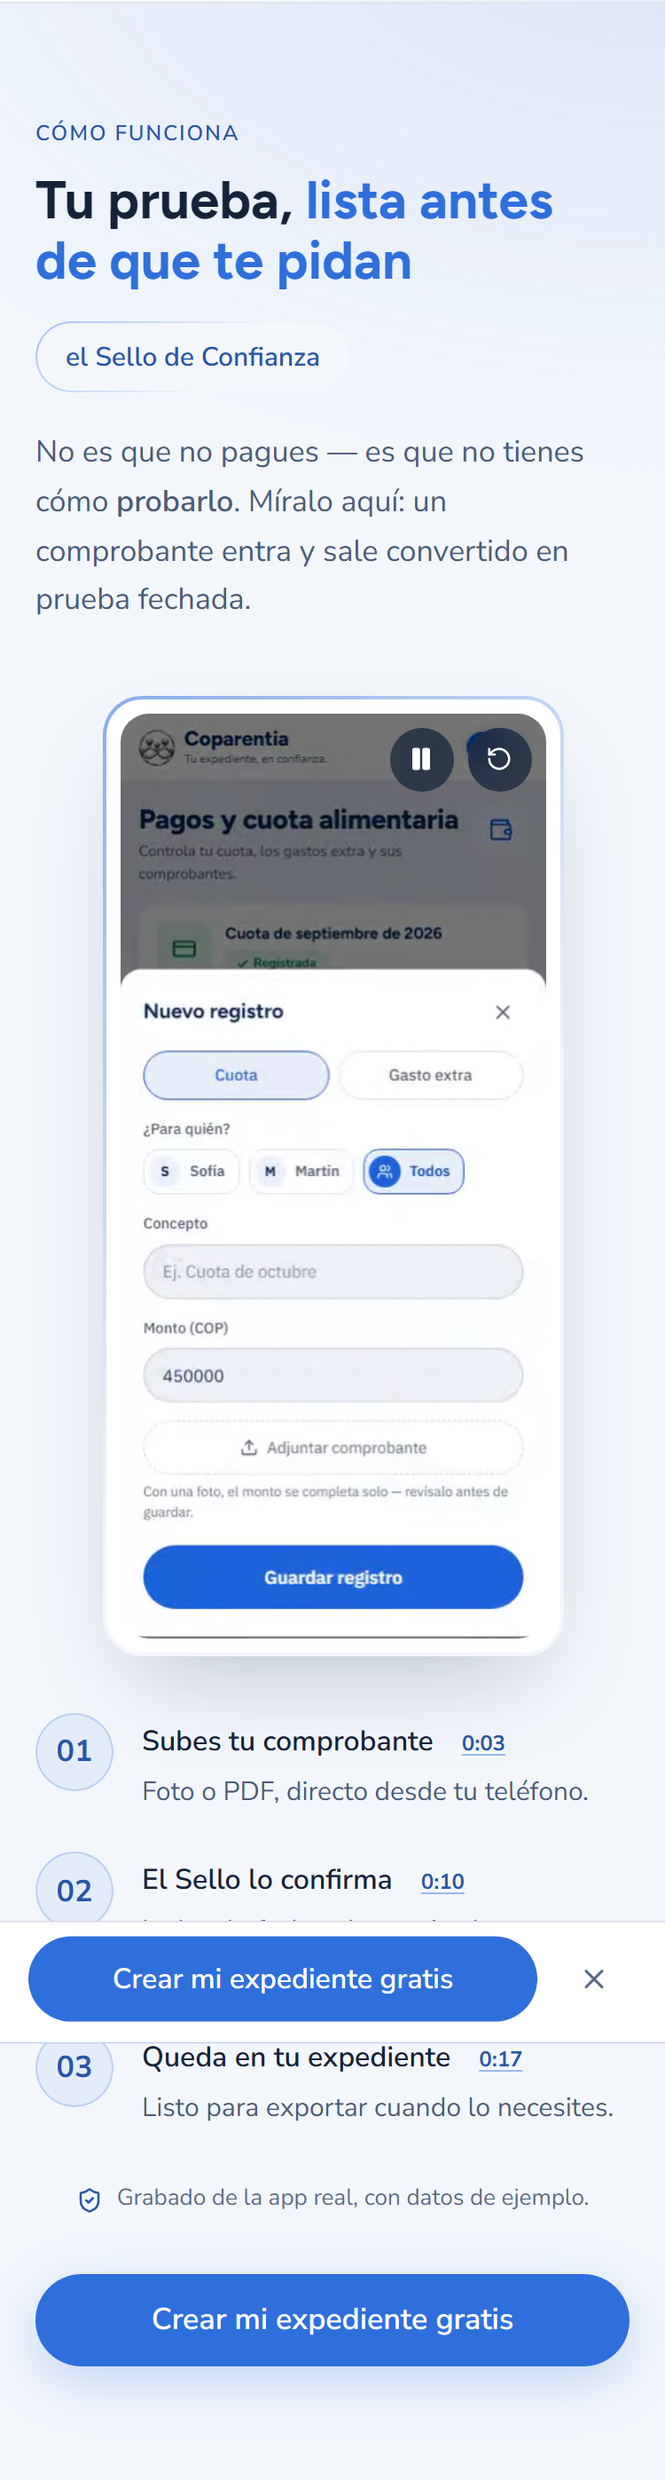
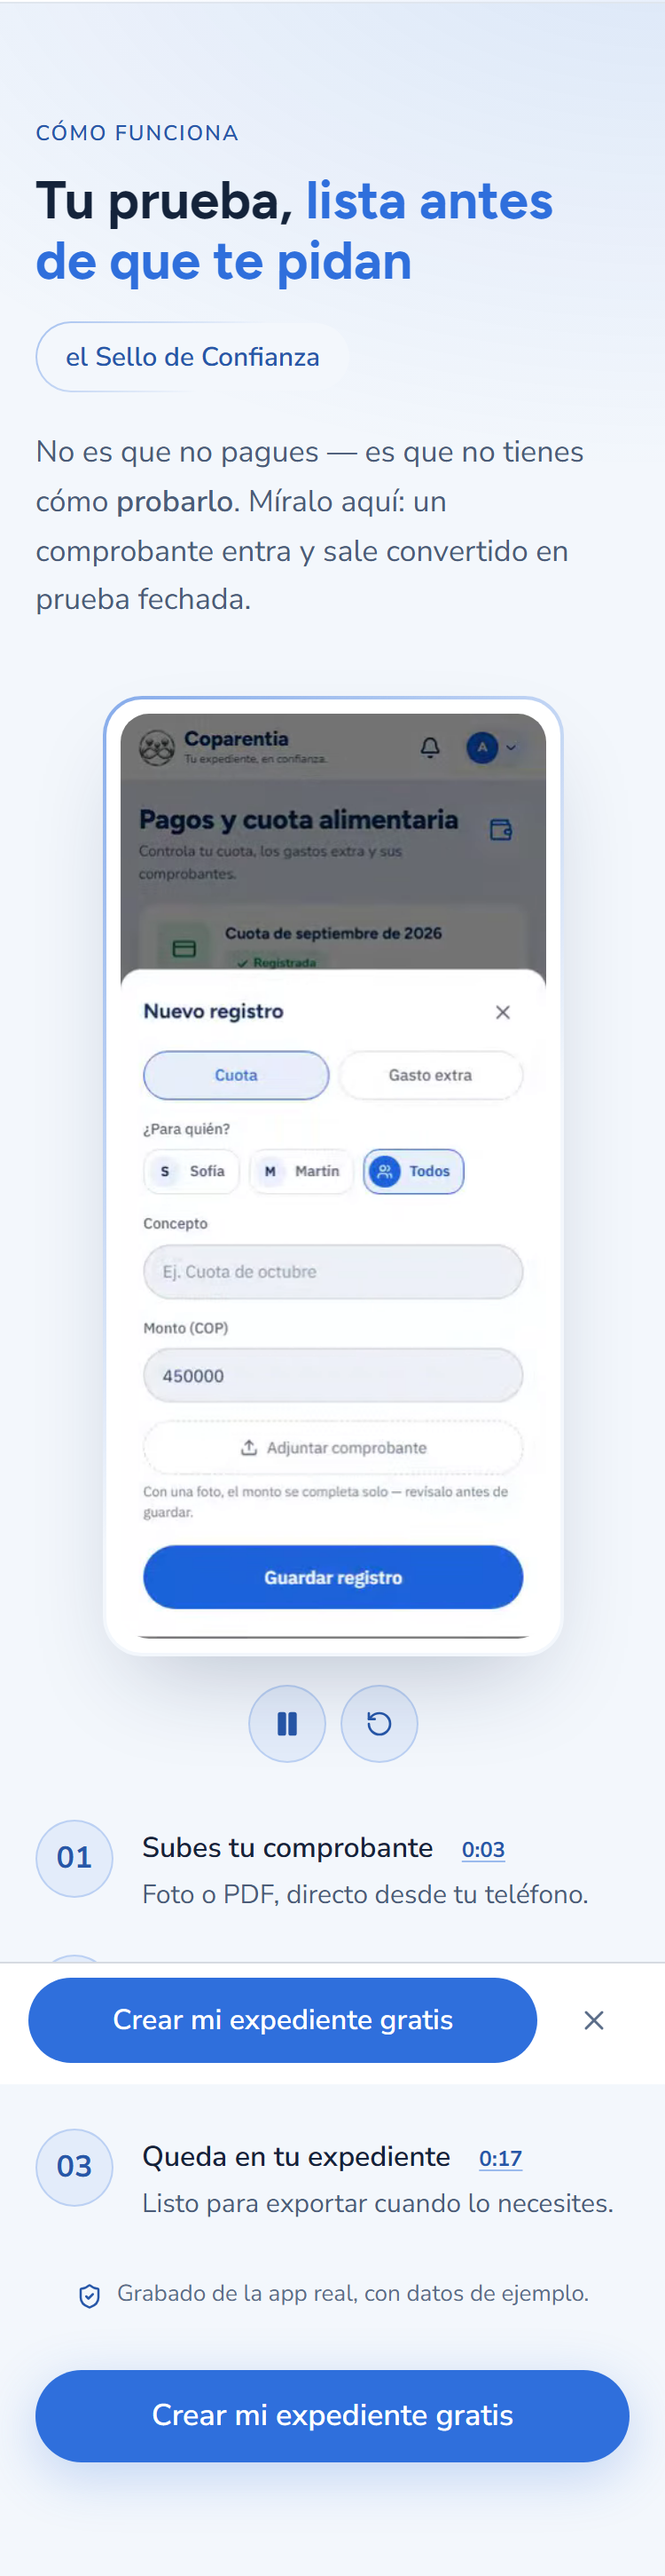
fix(landing): mando del video fuera del cuadro y barra fija que cede el paso
Ronda 12 del revisor:

- El mando (pausar / volver a empezar) sale de encima de la grabacion: va
  debajo del telefono, con 44px de area tactil.
- Las marcas de tiempo llegan a 44px de alto y, al saltar, llevan el video a
  la vista (en celular esta arriba de los pasos y el salto pasaba fuera de
  pantalla).
- La barra fija de celular se esconde mientras CUALQUIER boton principal de la
  pagina este a la vista, no solo sobre la oferta y el cierre. Barrido de la
  pagina entera: 0 choques en 22 posiciones de scroll.

Changed region(s): [[0.0307, 0.0311, 0.92, 0.9653], [0.8893, 0.7785, 0.92, 0.8096]]

diff --git a/components/landing/Solucion.tsx b/components/landing/Solucion.tsx
@@ -142,6 +142,8 @@ export function Solucion({
     el.currentTime = Math.max(INICIO, segundosDe(marca));
     void el.play();
     setPausado(false);
+    // En celular el video va ARRIBA de los pasos: sin esto el salto ocurría fuera de pantalla.
+    el.scrollIntoView({ block: 'center', behavior: 'smooth' });
   };
 
   return (
@@ -178,7 +180,7 @@ export function Solucion({
             en 3 columnas, como en el resto del kit. */}
         {demo ? (
           <div className="mt-10 lg:grid lg:grid-cols-[0.95fr_1.05fr] lg:items-center lg:gap-16">
-            <motion.div variants={item} className="flex justify-center lg:order-2">
+            <motion.div variants={item} className="flex flex-col items-center lg:order-2">
               <Hairline emphasis surface="surface" className="relative w-full max-w-[260px] p-2 shadow-[var(--shadow-2)] lg:max-w-[320px]">
                 <video
                   ref={ref}
@@ -216,29 +218,31 @@ export function Solucion({
                   </button>
                 )}
 
-                {/* Mando propio: los controles del navegador montaban su barra negra encima de la
-                    navegación de la app grabada. Dos botones bastan — pausar y volver a empezar. */}
-                {yaArranco && (
-                  <div className="absolute right-4 top-4 flex items-center gap-2">
-                    <button
-                      type="button"
-                      onClick={alternarPausa}
-                      aria-label={pausado ? 'Reanudar la demostración' : 'Pausar la demostración'}
-                      className="flex size-9 items-center justify-center rounded-full bg-[color-mix(in_oklab,var(--text-primary)_72%,transparent)] text-[var(--on-accent)] backdrop-blur transition-transform active:scale-95"
-                    >
-                      {pausado ? <Play size={15} fill="currentColor" aria-hidden="true" /> : <Pause size={15} fill="currentColor" aria-hidden="true" />}
-                    </button>
-                    <button
-                      type="button"
-                      onClick={alTerminar}
-                      aria-label="Volver a empezar la demostración"
-                      className="flex size-9 items-center justify-center rounded-full bg-[color-mix(in_oklab,var(--text-primary)_72%,transparent)] text-[var(--on-accent)] backdrop-blur transition-transform active:scale-95"
-                    >
-                      <RotateCcw size={15} aria-hidden="true" />
-                    </button>
-                  </div>
-                )}
               </Hairline>
+
+              {/* Mando propio: los controles del navegador montaban su barra negra sobre la
+                  navegación de la app grabada, y encima del cuadro tapaban contenido. Van fuera
+                  del teléfono, con 44px de área táctil. */}
+              {yaArranco && (
+                <div className="mt-4 flex items-center gap-2">
+                  <button
+                    type="button"
+                    onClick={alternarPausa}
+                    aria-label={pausado ? 'Reanudar la demostración' : 'Pausar la demostración'}
+                    className="flex size-11 items-center justify-center rounded-full border border-[color-mix(in_oklab,var(--accent)_22%,transparent)] bg-[var(--chip-bg)] text-[var(--accent-ink,var(--accent))] transition-transform active:scale-95 [touch-action:manipulation]"
+                  >
+                    {pausado ? <Play size={16} fill="currentColor" aria-hidden="true" /> : <Pause size={16} fill="currentColor" aria-hidden="true" />}
+                  </button>
+                  <button
+                    type="button"
+                    onClick={alTerminar}
+                    aria-label="Volver a empezar la demostración"
+                    className="flex size-11 items-center justify-center rounded-full border border-[color-mix(in_oklab,var(--accent)_22%,transparent)] bg-[var(--chip-bg)] text-[var(--accent-ink,var(--accent))] transition-transform active:scale-95 [touch-action:manipulation]"
+                  >
+                    <RotateCcw size={16} aria-hidden="true" />
+                  </button>
+                </div>
+              )}
             </motion.div>
 
             <ol className="mt-8 flex flex-col gap-6 lg:order-1 lg:mt-0">
@@ -258,7 +262,7 @@ export function Solucion({
                           type="button"
                           onClick={() => irA(p.marca as string)}
                           aria-label={`Ver este paso en el video, en el segundo ${p.marca}`}
-                          className="rounded-[var(--radius-button)] px-2 py-1 text-[12px] font-bold tabular-nums text-[var(--accent-ink,var(--accent))] underline decoration-[color-mix(in_oklab,var(--accent)_45%,transparent)] underline-offset-2 transition-colors hover:bg-[var(--chip-bg)] lg:text-[13px]"
+                          className="-my-3 inline-flex min-h-11 items-center rounded-[var(--radius-button)] px-2 text-[12px] font-bold tabular-nums text-[var(--accent-ink,var(--accent))] underline decoration-[color-mix(in_oklab,var(--accent)_45%,transparent)] underline-offset-2 transition-colors hover:bg-[var(--chip-bg)] lg:text-[13px]"
                         >
                           {p.marca}
                         </button>

diff --git a/components/landing/ui.tsx b/components/landing/ui.tsx
@@ -308,6 +308,7 @@ export function CtaButton({
       href={href}
       onClick={() => setYendo(true)}
       aria-busy={yendo || undefined}
+      data-cta-pagina=""
       className={`inline-flex items-center justify-center rounded-[var(--radius-button)] px-8 text-[17px] font-semibold transition-[colors,opacity] lg:px-10 lg:text-[18px] duration-150 [touch-action:manipulation] ${yendo ? 'opacity-80' : ''} ${
         variant === 'outline'
           ? 'border border-[color-mix(in_oklab,var(--accent)_45%,transparent)] text-[var(--accent-ink)] hover:bg-[var(--chip-bg)]'
@@ -348,6 +349,7 @@ export function StickyCtaMobile({
   // el PRÓXIMO hito de scroll (entra/sale de hero, oferta o cta-final), nunca la esconde para
   // siempre: si el usuario sigue navegando, la barra vuelve a ofrecer ayuda cuando haga falta.
   const [descartada, setDescartada] = useState(false);
+  const [ctaEnPantalla, setCtaEnPantalla] = useState(false);
   const ultimoHito = useRef({ heroVisible, ofertaVisible, finalVisible });
 
   useEffect(() => {
@@ -381,14 +383,27 @@ export function StickyCtaMobile({
       if (v) setOfertaVista(true);
     });
     const c = observar(ctaFinalId, setFinalVisible);
+
+    const botones = Array.from(document.querySelectorAll('[data-cta-pagina]'));
+    const alaVista = new Set<Element>();
+    const ioCtas = new IntersectionObserver(
+      (entries) => {
+        entries.forEach((e) => (e.isIntersecting ? alaVista.add(e.target) : alaVista.delete(e.target)));
+        setCtaEnPantalla(alaVista.size > 0);
+      },
+      { threshold: 0.1 }
+    );
+    botones.forEach((el) => ioCtas.observe(el));
+
     return () => {
       a?.disconnect();
       b?.disconnect();
       c?.disconnect();
+      ioCtas.disconnect();
     };
   }, [heroId, ofertaId, ctaFinalId]);
 
-  const visible = !heroVisible && !ofertaVisible && !finalVisible && !descartada;
+  const visible = !heroVisible && !ofertaVisible && !finalVisible && !ctaEnPantalla && !descartada;
 
   return (
     <AnimatePresence>
